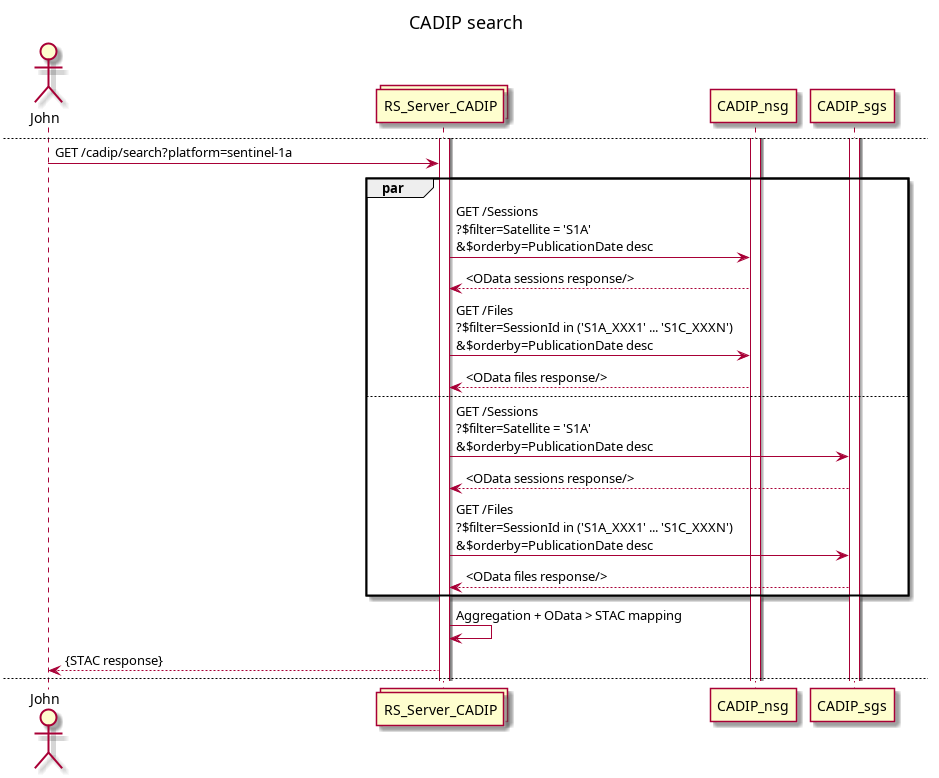
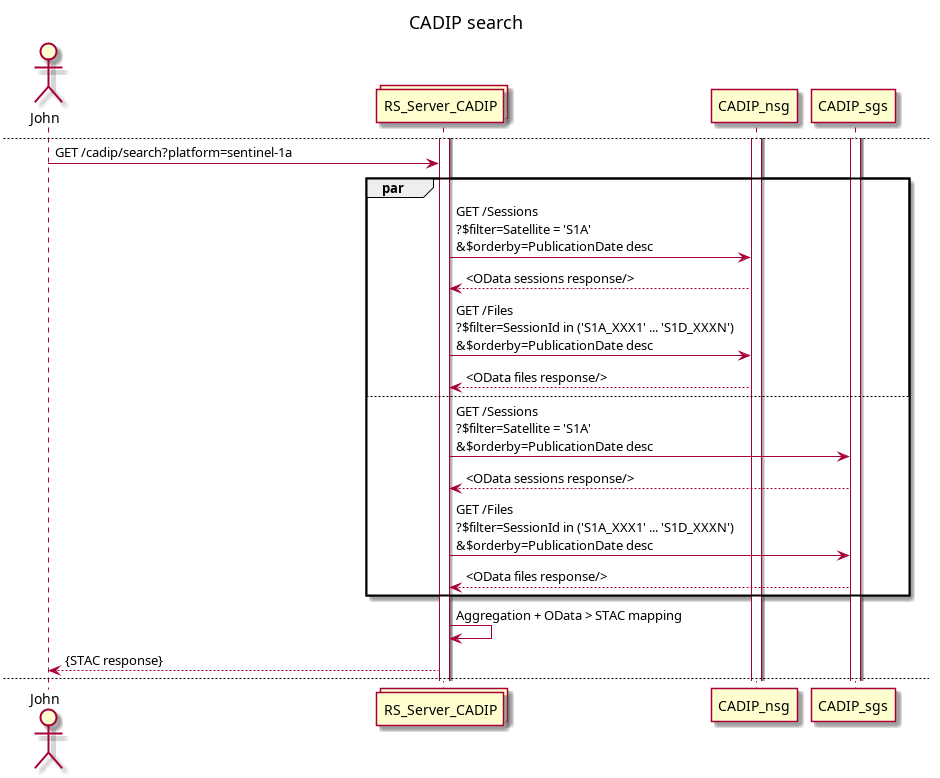
RSPY-1046 - Add Sentinel-1D

diff --git a/tests/test_search_endpoint.py b/tests/test_search_endpoint.py
@@ -2993,7 +2993,7 @@ def test_serialize_adgs_asset_missing_external_ids():
 
 def test_build_summaries_cadip_valid(monkeypatch):
     """Test mapping of Satellite values to platform for summaries in Cadip."""
-    query = {"Satellite": ["S1A", "S1C"]}
+    query = {"Satellite": ["S1A", "S1C", "S1D"]}
 
     monkeypatch.setattr(
         "rs_server_common.utils.utils.map_stac_platform",
@@ -3001,12 +3001,13 @@ def test_build_summaries_cadip_valid(monkeypatch):
             "satellites": [
                 {"sentinel-1a": {"code": "S1A"}},
                 {"sentinel-1c": {"code": "S1C"}},
+                {"sentinel-1d": {"code": "S1D"}},
             ],
         },
     )
 
     result = stac_api_common.build_summaries("cadip", query)
-    assert result == {"platform": ["sentinel-1a", "sentinel-1c"]}
+    assert result == {"platform": ["sentinel-1a", "sentinel-1c", "sentinel-1d"]}
 
 
 def test_build_summaries_auxip_valid():
